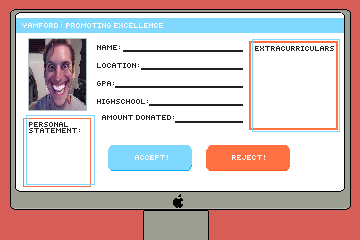
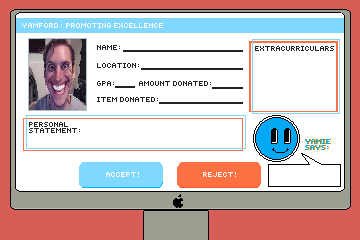
5.12.22

Changed region(s): [[0.0611, 0.3208, 0.9472, 0.7875]]

diff --git a/Q4P/src/Application.java b/Q4P/src/Application.java
@@ -17,38 +17,62 @@ import java.util.ArrayList;
 public class Application {
 
 	private String name; 
+	private String lastName; 
 	private String gpa; 
 	private String pStatement; 
 	private String ec; 
 	private String dMoney; 
-	private String location; 
-
+	private String location;
+	private String donation; 
+	
 	
 	Character a = new Character(); 
+	Color c;
 
 	public Application() {
 		name = a.getFirstName(); 
+		lastName = a.getLastName(); 
 		gpa = a.getGpa(); 
-		pStatement = ""; 
-		ec = ""; 
+		pStatement = a.getPersonalStatement(); 
+		ec = a.getExtracurricular(); 
 		dMoney = a.getDonation(); 
 		location = a.getLocation(); 
+		donation = a.getDonated(); 
+		
+		if(pStatement.length() > 20) {
+			//pStatement = pStatement.substring(0, 20); 
+		}
 	}
 
 	public void paint(Graphics g) {
-		//name
-		g.drawString(name, 1200, 300);
+		c = new Color(128, 217, 255); 
+		g.setColor(c);
+		g.setFont(new Font("TimesRoman", Font.PLAIN, 40)); 
+		
+		//name 
+		g.drawString(name +" "+lastName , 500, 187);
+		
 		//gpa 
-		g.drawString(gpa, 1200, 350);
+		g.drawString(gpa, 465, 323);
+		
 		//pStatement
-		//g.drawString(pStatement, x, y); 
+		g.setFont(new Font("TimesRoman", Font.PLAIN, 20));
+		g.drawString(pStatement, 120, 535);
+		
 		//ec
-		//g.drawString(ec, x, y);
+		g.setFont(new Font("TimesRoman", Font.PLAIN, 20));
+		g.drawString(ec, 1020, 240);
+		
 		//dMoney
-		//g.drawString(dMoney, x, y);
+		g.setFont(new Font("TimesRoman", Font.PLAIN, 25));
+		g.drawString(dMoney, 852, 330);
+		
 		//location
-		//g.drawString(location, x, y); 
-
+		g.setFont(new Font("TimesRoman", Font.PLAIN, 40));
+		g.drawString(location, 570, 256); 
+		
+		//item donated 
+		g.drawString(donation, 640, 386);
 	}
 
 }

diff --git a/Q4P/src/sbg.java b/Q4P/src/sbg.java
@@ -13,10 +13,11 @@ public class sbg {
 	//add location attributes
 	private Image img; 	
 	private AffineTransform tx;
+	private int rand; 
 
 	public sbg(int x, int y) {
 
-		img = getImage("./imgs/desk_bg.png"); //load the image for Tree
+		img = getImage("./imgs/sbg1.png"); //load the image for Tree
 		tx = AffineTransform.getTranslateInstance(x, y);
 		init(x, y); 				//initialize the location of the image
 									//use your variables
@@ -42,7 +43,10 @@ public class sbg {
 	/* update the picture variable location */
 
 	public void update() {
-
+		rand = (int) (Math.random() * 11); 
+		if(rand == 0) {
+			
+		}
 	}
 
 	public void random() {

diff --git a/Q4P/src/Character.java b/Q4P/src/Character.java
@@ -97,7 +97,7 @@ public class Character {
 	public int getDonationAsInt() {
 		String temp = getDonation();
 		temp = temp.substring(1).replaceAll(",", ""); //remove $ and ,
-		return Integer.parseInt(temp);
+		return (int) Double.parseDouble(temp);
 	}
 
 	public boolean donationAbove(int threshold) {
